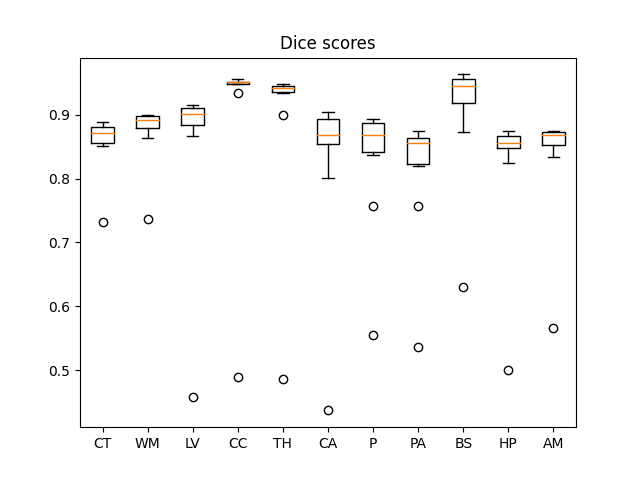
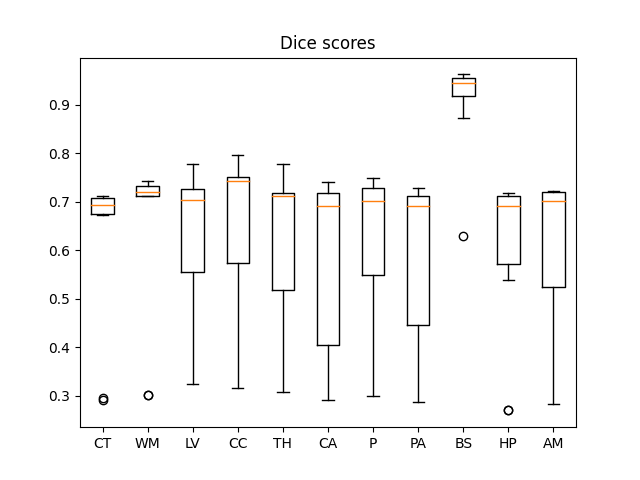
Updated results with correct chirality.

diff --git a/dcan/paper/create_dice_scores_box_plot.py b/dcan/paper/create_dice_scores_box_plot.py
@@ -1,3 +1,5 @@
+# Author: Paul Reiners
+
 import matplotlib.pyplot as plt
 import numpy as np
 import pandas as pd

diff --git a/doc/tasks/512/Task512.md b/doc/tasks/512/Task512.md
@@ -13,21 +13,21 @@ Dice coefficient: 0.7326840654952894
 
 | segment_name      | Dice |
 | ----------- | ----------- |
-| Cerebral-White-Matter      | 0.8569272769753329       |
-| Cerebral-Cortex   | 0.8397469274483849        |
-| Lateral-Ventricle | 0.8038140272934797 |
-| Cerebellum-Cortex | 0.8678992501253581 |
-| Thalamus-Proper* | 0.8496686503956972 |
-| Caudate | 0.7847380414558429 |
-| Putamen | 0.7906269525966562 |
-| Pallidum | 0.7536450702975441 |
-| 3rd-Ventricle | 0.8769779276317535 |
-| 4th-Ventricle | 0.8472866893067705 |
-| Brain-Stem | 0.9078272367621212 |
-| Hippocampus | 0.7973869532268174 |
-| Amygdala | 0.7941830548737976 |
-| Accumbens-area | 0.5994838698375999 |
-| VentralDC | 0.7839104355039526 |
+| Cerebral-White-Matter | 0.7418461715565524
+| Cerebral-Cortex | 0.7012721297438969
+| Lateral-Ventricle | 0.6215763253561358
+| Cerebellum-Cortex | 0.7033500374650061
+| Thalamus-Proper* | 0.6423429145582489
+| Caudate | 0.6373431224099957
+| Putamen | 0.684560795882228
+| Pallidum | 0.6403555260799341
+| 3rd-Ventricle | 0.8769779276317535
+| 4th-Ventricle | 0.8472866893067705
+| Brain-Stem | 0.9078272367621212
+| Hippocampus | 0.7049890187448682
+| Amygdala | 0.6839130294749083
+| Accumbens-area | 0.3630193559324584
+| VentralDC | 0.5314293312637872 |
 
 ![Dice scores box plot](dice_scores.png "Dice scores")
 
